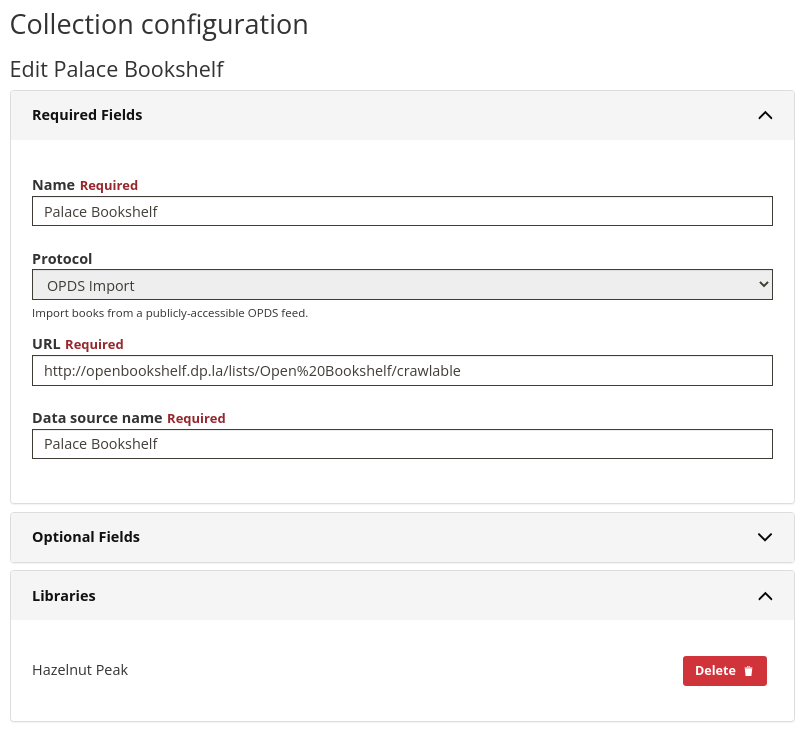
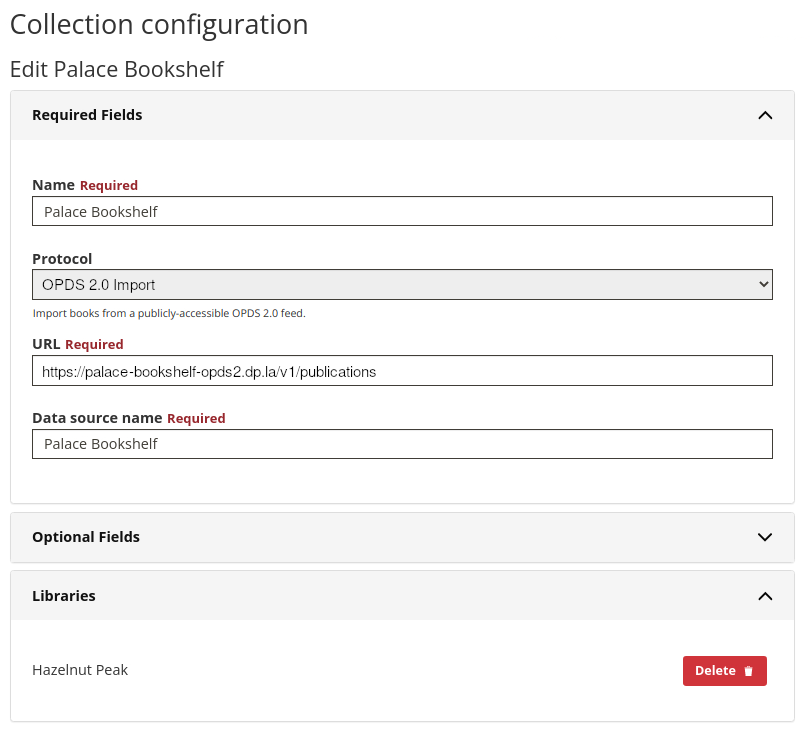
Update README (#1182)
* Update README

* Update the README image again.

* Fix README.md line length.

Changed region(s): [[0.0616, 0.4993, 0.5542, 0.5305], [0.0308, 0.3745, 0.3695, 0.4369]]

diff --git a/README.md b/README.md
@@ -264,8 +264,9 @@ At this point, the _library_ exists but does not contain any _collections_ and t
 
 Navigate to `System Configuration → Collections` and click _Create new collection_. You will prompted to enter
 details that will be used to source the data for the collection. A good starting point, for testing purposes,
-is to use an open access OPDS feed as a data source. The [Open Bookshelf](https://openbookshelf.dp.la/) is a good example
-of such a feed. Enter the following details:
+is to use an open access OPDS feed as a data source. The
+[Open Bookshelf](https://palace-bookshelf-opds2.dp.la/v1/publications) is a good example of such a feed. Enter the
+following details:
 
 ![.github/readme/collection.png](.github/readme/collection.png)
 
